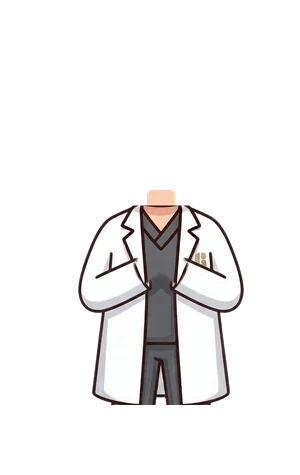
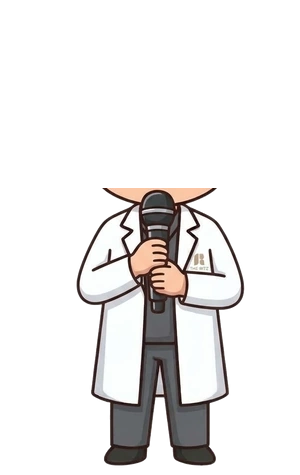
Singing pose: Gid's mic art fitted to the rig, with the rig's own singing faces
Claude-Session: https://claude.ai/code/session_01MQWzxUoPQazVSi8froKwHa

Changed region(s): [[0.24, 0.3832, 0.84, 1.0], [0.75, 0.5011, 0.78, 0.5305], [0.72, 0.4716, 0.75, 0.5011]]

diff --git a/js/ritz-rig.js b/js/ritz-rig.js
@@ -75,13 +75,11 @@ export function createRitz(host, size = 120) {
         <img class="rz-leg rz-leg-r" src="${BASE}leg-r.webp" alt="" draggable="false" style="transform-origin:${G.hipR[0]}px ${G.hipR[1]}px">
         <div class="rz-torso" style="transform-origin:${G.w / 2}px ${G.hipL[1]}px">
           <img class="rz-body" src="${BASE}body-stand.webp" alt="" draggable="false">
-          <svg class="rz-mic rz-mic-handle" viewBox="0 0 ${G.w} ${G.h}" aria-hidden="true"><defs><linearGradient id="rzh" x1="0" x2="1"><stop offset="0" stop-color="#111"/><stop offset=".45" stop-color="#4a4a4a"/><stop offset="1" stop-color="#111"/></linearGradient></defs><path d="M156.8 205h7.4l-1.4 98h-4.6z" fill="url(#rzh)" stroke="${INK}" stroke-width="1.2"/></svg>
-          <img class="rz-mic rz-hands" src="${BASE}hands-mic.webp" alt="" draggable="false">
           <div class="rz-head" style="transform-origin:${G.neck[0]}px ${G.neck[1]}px">
             <img src="${BASE}head.webp" alt="" draggable="false">
             <svg class="rz-face" viewBox="0 0 ${G.w} ${G.h}" aria-hidden="true"><g class="rz-look"></g></svg>
           </div>
-          <svg class="rz-mic rz-mic-head" viewBox="0 0 ${G.w} ${G.h}" aria-hidden="true"><defs><radialGradient id="rzb" cx=".35" cy=".3"><stop offset="0" stop-color="#F4F4F4"/><stop offset=".55" stop-color="#9DA3AA"/><stop offset="1" stop-color="#4C5157"/></radialGradient><pattern id="rzm" width="3" height="3" patternUnits="userSpaceOnUse"><path d="M0 0h3M0 0v3" stroke="#3A3E43" stroke-width=".5" opacity=".55"/></pattern></defs><rect x="154.5" y="205" width="12" height="7" rx="1.8" fill="#D9B566" stroke="${INK}" stroke-width="1"/><circle cx="160.5" cy="192" r="15" fill="url(#rzb)" stroke="${INK}" stroke-width="2"/><circle cx="160.5" cy="192" r="15" fill="url(#rzm)"/><circle cx="155" cy="185.5" r="3.4" fill="#fff" opacity=".8"/></svg>
+          <img class="rz-mic rz-micover" src="${BASE}mic-over.webp" alt="" draggable="false">
         </div>
         <img class="rz-full" src="${BASE}full-think.webp" alt="" draggable="false" hidden>
       </div>
@@ -94,7 +92,7 @@ export function createRitz(host, size = 120) {
   // preload
   [...new Set(Object.values(BODY))].forEach((b) => { const i = new Image(); i.src = `${BASE}body-${b}.webp`; });
   Object.values(FULL).forEach((b) => { const i = new Image(); i.src = `${BASE}full-${b}.webp`; });
-  { const i = new Image(); i.src = `${BASE}hands-mic.webp`; }
+  { const i = new Image(); i.src = `${BASE}mic-over.webp`; }
 
   const state = { pose: 'idle', expr: 'happy', turn: 0 };
   let blinking = false, lookX = 0, lookY = 0;

diff --git a/css/ritz-rig.css b/css/ritz-rig.css
@@ -84,6 +84,7 @@
 @media print { .buddy, .buddy-peek { display: none; } }
 .rz-mic { display: none; position: absolute; left: 0; top: 0; width: 300px; height: 475px; pointer-events: none; }
 .rz-singing .rz-mic { display: block; }
+.rz-singing .rz-leg { display: none; }   /* the singing body is drawn with its own legs */
 .rz-singing .rz-torso { animation: rz-sway 1.1s ease-in-out infinite; transform-origin: 150px 470px; }
 @keyframes rz-sway { 0%, 100% { transform: rotate(-3deg); } 50% { transform: rotate(3deg); } }
 .buddy-notes { position: absolute; left: 50%; top: 10%; width: 0; height: 0; pointer-events: none; }
